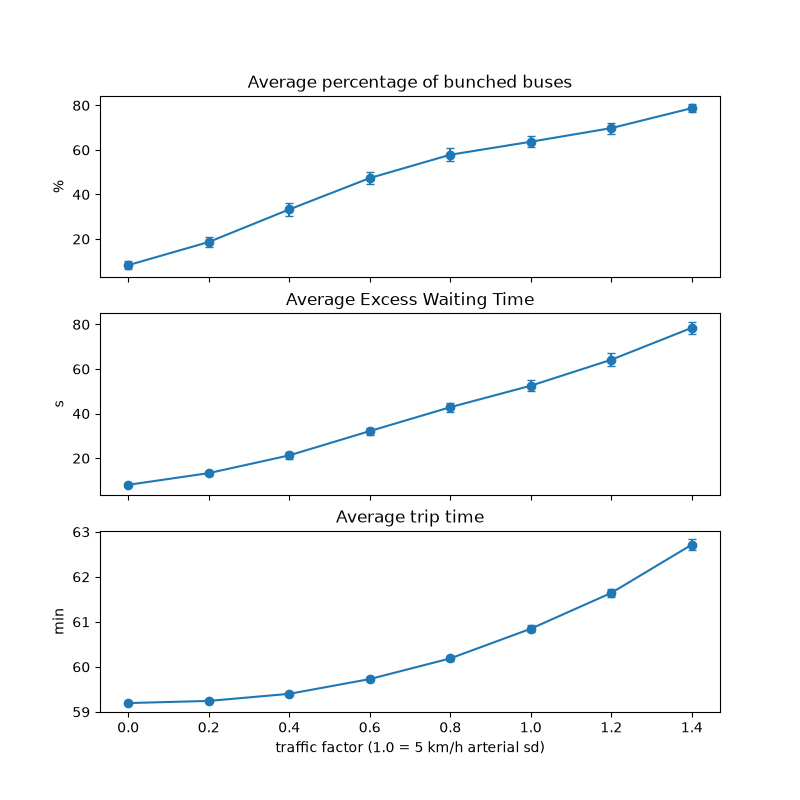
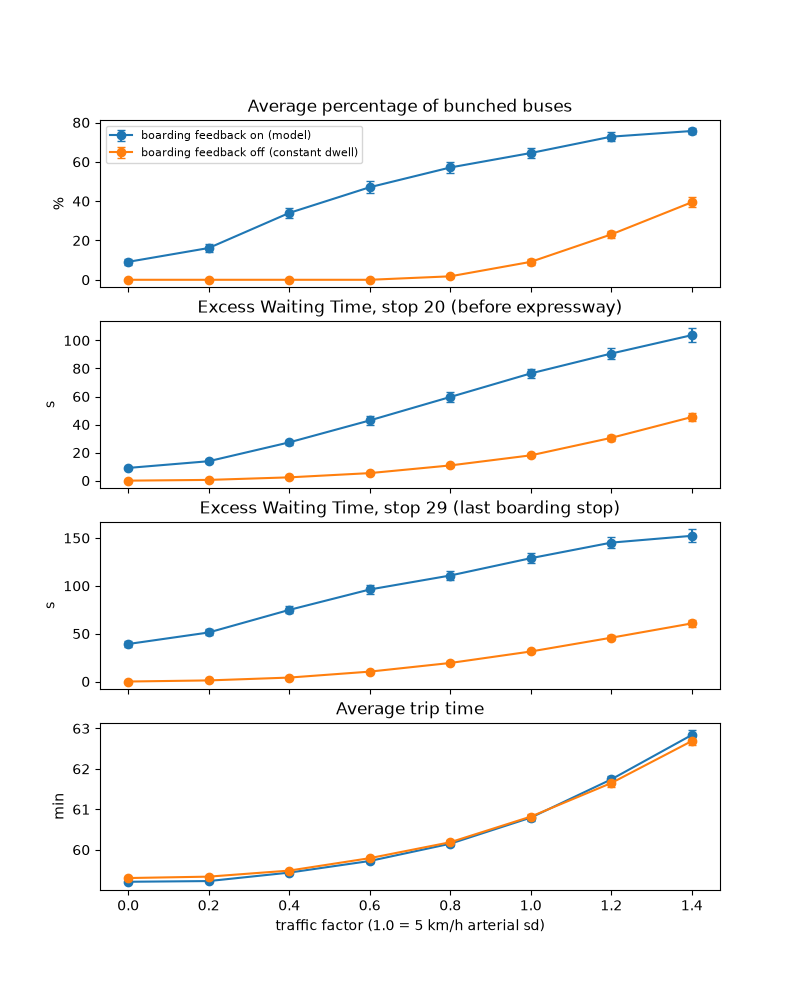
added comparison between no traffic, no passenger noise. and chose t_c = 10 min for control

diff --git a/busBunch.py b/busBunch.py
@@ -1,23 +1,51 @@
 import numpy as np
 import matplotlib.pyplot as plt
 from batch import run_batch
+from helpers import BEFORE_EXPRESSWAY_INDEX
 
 RUN_COUNT = 100
+PROFILE_RUNS = 200
+
+# boarding feedback: on = model (dwell grows with time since the last bus, Poisson boarding);
+# off = every bus dwells for the model's mean, so headway no longer affects dwell
+FEEDBACK = {"boarding feedback on (model)": True, "boarding feedback off (constant dwell)": False}
 
 if __name__ == "__main__":
-    # traffic-noise sweep, no control
+    # 1. traffic-noise sweep, no control, with and without boarding feedback
     traffic_factor = np.arange(0.0, 1.5, 0.2)
-    results = [run_batch(RUN_COUNT, traffic_factor=factor) for factor in traffic_factor]
+    results = {name: [run_batch(RUN_COUNT, traffic_factor=f, passenger_noise=fb) for f in traffic_factor]
+               for name, fb in FEEDBACK.items()}
 
-    fig, axs = plt.subplots(nrows=3, figsize=(8, 8), sharex=True)
-    axs[0].set_title('Average percentage of bunched buses')
-    axs[0].set(ylabel='%')
-    axs[1].set_title('Average Excess Waiting Time')
-    axs[1].set(ylabel='s')
-    axs[2].set_title('Average trip time')
-    axs[2].set(ylabel='min', xlabel = 'traffic factor (1.0 = 5 km/h arterial sd)')
-    for ax, key in zip(axs, ("prob", "ewt", "trip")):
-        ax.errorbar(traffic_factor, [r[key] for r in results], yerr=[r[key + "_ci"] for r in results],
-                    marker='o', capsize=3)
+    fig, axs = plt.subplots(nrows=4, figsize=(8, 10), sharex=True)
+    for ax, key, title, unit in zip(axs, ("prob", "ewt20", "ewt29", "trip"),
+                                    ("Average percentage of bunched buses", "Excess Waiting Time, stop 20 (before expressway)",
+                                     "Excess Waiting Time, stop 29 (last boarding stop)", "Average trip time"),
+                                    ("%", "s", "s", "min")):
+        for name, res in results.items():
+            ax.errorbar(traffic_factor, [r[key] for r in res], yerr=[r[key + "_ci"] for r in res],
+                        marker='o', capsize=3, label=name)
+        ax.set(title=title, ylabel=unit)
+    axs[0].legend(fontsize=8)
+    axs[3].set(xlabel='traffic factor (1.0 = 5 km/h arterial sd)')
     fig.savefig('traffic_noise_sweep.png')
+
+    # 2. EWT along the route: traffic noise (disturbance) x boarding feedback (unstable plant)
+    cases = {
+        "traffic + feedback (model)": dict(traffic_factor=1.0, passenger_noise=True),
+        "traffic only (feedback off)": dict(traffic_factor=1.0, passenger_noise=False),
+        "feedback only (no traffic noise)": dict(traffic_factor=0.0, passenger_noise=True),
+        "neither": dict(traffic_factor=0.0, passenger_noise=False),
+    }
+    stops = np.arange(1, 30)
+    fig2, ax2 = plt.subplots(figsize=(8, 5))
+    print(f"{'case':34s} {'% bunched':>10s} {'EWT20 (s)':>10s} {'EWT29 (s)':>10s} {'trip (min)':>11s}")
+    for name, kw in cases.items():
+        r = run_batch(PROFILE_RUNS, **kw)
+        ax2.plot(stops, r["ewt_stop"][1:30], marker='.', label=name)
+        print(f"{name:34s} {r['prob']:6.1f}±{r['prob_ci']:<3.1f} {r['ewt20']:6.1f}±{r['ewt20_ci']:<3.1f} "
+              f"{r['ewt29']:6.1f}±{r['ewt29_ci']:<3.1f} {r['trip']:7.2f}")
+    ax2.axvspan(BEFORE_EXPRESSWAY_INDEX, BEFORE_EXPRESSWAY_INDEX + 1, color='grey', alpha=0.2, label='expressway leg')
+    ax2.set(xlabel='stop', ylabel='EWT (s)', title='EWT along the route (no control, 200 runs each)')
+    ax2.legend(fontsize=8)
+    fig2.savefig('feedback_profile.png')
     plt.show()

diff --git a/delta_sweep.py b/delta_sweep.py
@@ -1,0 +1,51 @@
+import numpy as np
+import matplotlib.pyplot as plt
+from batch import run_batch
+from controlFunction import make_controller
+
+RUN_COUNT = 200
+
+# headroom delta as a fraction of cruise speed: buses normally run at r = 1 - delta,
+# leaving room to speed up to r = 1 (slow-only cap) when they fall behind
+DELTA = [0.0, 0.02, 0.04, 0.06, 0.08, 0.10]
+
+# slow-only controller at the gain chosen from the T_c sweep (T_c = 10 min: near-zero bunching
+# for about +2.5 min of trip time); add entries here to compare other gains
+GAINS = {"T_c = 10 min": 600}
+SLOW_ONLY = dict(r_max=1.0, r_min=0.5)
+
+if __name__ == "__main__":
+    baseline = run_batch(RUN_COUNT)
+    results = {name: [run_batch(RUN_COUNT, controller=make_controller(T_c=T_c, delta=d, **SLOW_ONLY))
+                      for d in DELTA]
+               for name, T_c in GAINS.items()}
+
+    # metrics against delta
+    fig, axs = plt.subplots(nrows=4, figsize=(8, 10), sharex=True)
+    for ax, key, title, unit in zip(axs, ("prob", "ewt20", "ewt29", "trip"),
+                                    ("Average percentage of bunched buses", "Excess Waiting Time, stop 20 (before expressway)",
+                                     "Excess Waiting Time, stop 29 (last boarding stop)", "Average trip time"),
+                                    ("%", "s", "s", "min")):
+        for name, res in results.items():
+            ax.errorbar(DELTA, [r[key] for r in res], yerr=[r[key + "_ci"] for r in res],
+                        marker='o', capsize=3, label=name)
+        ax.axhline(baseline[key], color='grey', linestyle='--', label='no control')
+        ax.set(title=title, ylabel=unit)
+    axs[0].legend(fontsize=8)
+    axs[3].set(xlabel='headroom delta (fraction of cruise speed); slow-only, r in [0.5, 1]')
+    fig.savefig('delta_sweep.png')
+
+    # trade-off: what each extra minute of trip time buys in EWT at the last boarding stop
+    fig2, ax2 = plt.subplots(figsize=(7, 5))
+    for name, res in results.items():
+        ax2.errorbar([r["trip"] for r in res], [r["ewt29"] for r in res],
+                     xerr=[r["trip_ci"] for r in res], yerr=[r["ewt29_ci"] for r in res],
+                     marker='o', capsize=3, label=name)
+        for d, r in zip(DELTA, res):
+            ax2.annotate(f"{d:.2f}", (r["trip"], r["ewt29"]), textcoords="offset points", xytext=(5, 5), fontsize=7)
+    ax2.plot(baseline["trip"], baseline["ewt29"], 'ks', label='no control')
+    ax2.set(xlabel='average trip time (min)', ylabel='EWT at stop 29 (s)',
+            title='Cost of control: trip time against EWT (labels: delta)')
+    ax2.legend(fontsize=8)
+    fig2.savefig('delta_tradeoff.png')
+    plt.show()

diff --git a/tc_sweep.py b/tc_sweep.py
@@ -7,11 +7,11 @@ RUN_COUNT = 100
 
 # T_c (s): gain alpha = 1/T_c. Predicted stable window at a 10 s control period:
 # about 25 s (delay limit) to about 74 min (boarding-instability limit); see CLAUDE.md.
-T_C = [30, 120, 600, 1800, 3600, 4500, 5400]
+T_C = [15, 20, 30, 120, 600, 1800, 3600, 5400]
 
 STAGES = {
     "stage 1: no limits": dict(),
-    "stage 2: slow-only, delta 0.05": dict(delta=0.05, r_max=1.0, r_min=0.5),
+    "stage 2: slow-only, delta 0": dict(delta=0, r_max=1.0, r_min=0.5),
 }
 
 if __name__ == "__main__":
@@ -20,10 +20,11 @@ if __name__ == "__main__":
                       for T_c in T_C]
                for name, params in STAGES.items()}
 
-    fig, axs = plt.subplots(nrows=3, figsize=(8, 8), sharex=True)
-    for ax, key, title, unit in zip(axs, ("prob", "ewt", "trip"),
-                                    ("Average percentage of bunched buses", "Average Excess Waiting Time", "Average trip time"),
-                                    ("%", "s", "min")):
+    fig, axs = plt.subplots(nrows=4, figsize=(8, 10), sharex=True)
+    for ax, key, title, unit in zip(axs, ("prob", "ewt20", "ewt29", "trip"),
+                                    ("Average percentage of bunched buses", "Excess Waiting Time, stop 20 (before expressway)",
+                                     "Excess Waiting Time, stop 29 (last boarding stop)", "Average trip time"),
+                                    ("%", "s", "s", "min")):
         for name, res in results.items():
             ax.errorbar(np.array(T_C) / 60, [r[key] for r in res], yerr=[r[key + "_ci"] for r in res],
                         marker='o', capsize=3, label=name)
@@ -31,6 +32,6 @@ if __name__ == "__main__":
         ax.axvline(74, color='red', linestyle=':', label='predicted instability (about 74 min)')
         ax.set(title=title, ylabel=unit)
     axs[0].legend(fontsize=8)
-    axs[2].set(xscale='log', xlabel='T_c (min), gain = 1/T_c')
+    axs[3].set(xscale='log', xlabel='T_c (min), gain = 1/T_c')
     fig.savefig('tc_sweep.png')
     plt.show()

diff --git a/batch.py b/batch.py
@@ -2,6 +2,8 @@ import numpy as np
 from sim import simulate_run
 from helpers import headway_stats
 
+EWT_STOPS = (20, 29)   # stop before the expressway; last boarding stop (30, the terminal, is alight-only)
+
 
 def ci95(x):
     # 95% CI half-width; one value per run, so runs are the independent samples
@@ -15,7 +17,8 @@ def run_batch(n_runs=100, **sim_kwargs):
     Each metric is computed per run first, so runs are the independent samples for the CIs.
     Returns a dict of means and 95% CI half-widths:
         prob, prob_ci:       % of buses bunched
-        ewt, ewt_ci:         route-average EWT (s), stops 1-29 (per-passenger average under uniform demand)
+        ewt20, ewt20_ci:     EWT (s) at stop 20 (one key pair per stop in EWT_STOPS)
+        ewt29, ewt29_ci:     EWT (s) at stop 29
         ewt_stop:            mean EWT at every stop (array of 31)
         trip, trip_ci:       mean trip time (min), averaged within each run first
     """
@@ -28,10 +31,11 @@ def run_batch(n_runs=100, **sim_kwargs):
         trip.append(np.mean(list(result["trip_times"].values())) / 60)  # buses in a run are not independent
 
     ewt_all = np.array(ewt_all)                     # (runs, 31)
-    ewt_route = ewt_all[:, 1:30].mean(axis=1)       # per-run route average, stops 1-29
-    return {
+    out = {
         "prob": np.mean(prob), "prob_ci": ci95(prob),
-        "ewt": ewt_route.mean(), "ewt_ci": ci95(ewt_route),
         "ewt_stop": ewt_all.mean(axis=0),
         "trip": np.mean(trip), "trip_ci": ci95(trip),
     }
+    for k in EWT_STOPS:
+        out[f"ewt{k}"], out[f"ewt{k}_ci"] = ewt_all[:, k].mean(), ci95(ewt_all[:, k])
+    return out

diff --git a/sim.py b/sim.py
@@ -1,11 +1,11 @@
-from helpers import Bus, BusStop, distance, H
+from helpers import Bus, BusStop, distance, H, AVERAGE_PASSENGER_RATE
 import math
 
 DISPATCH_END = 7200  # last dispatch at t <= 2 h (17:00-19:00 peak)
 TIMEOUT = 12600  # safety cap only; runs normally end when every bus is terminal
 
 
-def simulate_run(record=False, controller = None, traffic_factor = 1.0, control_period = 10):
+def simulate_run(record=False, controller = None, traffic_factor = 1.0, control_period = 10, passenger_noise = True):
     """One peak-window run.
 
     Returns a dict with
@@ -50,7 +50,7 @@ def simulate_run(record=False, controller = None, traffic_factor = 1.0, control_
                     bus.terminal = True
                 else:
                     bus.last_stop += 1
-                    bus.dwell_end = time + busStops[bus.last_stop].dwell_time(time)
+                    bus.dwell_end = time + busStops[bus.last_stop].dwell_time(time, passenger_noise)
                     bus.base_speed = busStops[bus.last_stop].driving_speed()
                     bus.speed = bus.base_speed
 

diff --git a/helpers.py b/helpers.py
@@ -19,6 +19,8 @@ ARTERIAL_SPEED = 24.5
 
 # CRUISE_SPEED = (distance[-1])/(ROUTE_DURATION * 60)
 H = 5.0 * 60 # 5 min headway, based on 190 bus service weekday 5-7pm headway
+# model mean dwell: a bus waits about H - d since the previous departure, so d = 15.6 + 1.52 (H - d)/30 gives 29.3 s
+MEAN_DWELL = (FIXED_BUS_STOP_DELAY + AVERAGE_BOARD_TIME * AVERAGE_PASSENGER_RATE * H) / (1 + AVERAGE_BOARD_TIME * AVERAGE_PASSENGER_RATE)
 
 def get_speed(expressway = False, traffic_factor = 0):
     if traffic_factor == 0:
@@ -59,7 +61,11 @@ class BusStop:
         self.index = index
         self.traffic_factor = traffic_factor
 
-    def dwell_time(self, current_time):
+    def dwell_time(self, current_time, passenger_noise):
+
+        if not passenger_noise:
+            # boarding feedback off: every bus dwells for the model's mean, whatever its headway
+            return MEAN_DWELL
 
         if self.last_bus_time == None:
             wait_time = H

diff --git a/controlFunction.py b/controlFunction.py
@@ -1,11 +1,10 @@
 import numpy as np
-from helpers import distance, H, ARTERIAL_SPEED, EXPRESSWAY_SPEED, BEFORE_EXPRESSWAY_INDEX
+from helpers import distance, H, ARTERIAL_SPEED, EXPRESSWAY_SPEED, BEFORE_EXPRESSWAY_INDEX, MEAN_DWELL
 
 # Equivalent-arterial coordinate: the route stretched so it runs at ARTERIAL_SPEED throughout.
 # The expressway leg is shrunk by ARTERIAL/EXPRESSWAY, and each intermediate stop adds the
 # distance an arterial bus would cover during an average dwell. A spacing in this coordinate
 # divided by ARTERIAL_SPEED is a nominal time headway.
-MEAN_DWELL = 29.3                                   # s, model mean dwell (see CLAUDE.md)
 V_ART = ARTERIAL_SPEED / 3600                       # km/s
 DWELL_EQ = MEAN_DWELL * V_ART                       # km of arterial road per average dwell
 

diff --git a/README.md b/README.md
@@ -2,13 +2,15 @@
 
 A simulation of bus bunching on SMRT service 190 (Kampong Bahru Terminal to Choa Chu Kang Interchange), built from real LTA stop-distance data and calibrated to the published timetable. The goal is to test a cooperative speed-control law (Daganzo and Pilachowski, 2011) under the constraints a Singapore operator actually faces. The main constraint is that buses can be slowed but not sped up.
 
-**Status:** the uncontrolled baseline is complete. The controller is in progress.
+**Status:** the uncontrolled baseline and a first controller are complete. The headroom trade-off, a discrete driver display and driver lag are in progress.
 
 <img width="2400" height="800" alt="Animation of 190 buses along the route, with bunched buses in red" src="https://github.com/user-attachments/assets/81368f2a-8a7e-4990-985b-4adb60d7a8e3" />
 
 ## Headline so far
 
-Without control, bunching appears even with no traffic noise at all. Uneven passenger boarding alone bunches about 11% of buses over a two-hour evening peak. At the baseline traffic noise this rises to 65%. Excess wait time grows steadily along the route, reaching about 2 minutes by the last boarding stop.
+Without control, bunching appears even with no traffic noise at all. Uneven passenger boarding alone bunches about 11% of buses over a two-hour evening peak. At the baseline traffic noise this rises to 65%, and excess wait time (EWT) reaches about 2 minutes by the last boarding stop.
+
+A slow-only version of Daganzo and Pilachowski's cooperative speed control, which never asks a bus to go faster than traffic allows, cuts bunching from 65% to under 1% and EWT at the last boarding stop from 131 s to 11 s. It costs about 2.5 minutes of trip time.
 
 ## Model
 
@@ -48,7 +50,9 @@ The last 0.8 km to the interchange takes 5–7 min in the timetable, against abo
 
   AWT = Σh² / (2Σh),  SWT = H/2,  EWT = AWT − SWT.
 
-  EWT is the extra time an average passenger, arriving at random, waits because buses are uneven. It is quadratic in headway, because long gaps both catch more passengers and make each of them wait longer. The **route average** over stops 1–29 equals the per-passenger average, because demand is uniform across stops. The first and last bus are left out.
+  EWT is the extra time an average passenger, arriving at random, waits because buses are uneven. It is quadratic in headway, because long gaps both catch more passengers and make each of them wait longer. The first and last bus are left out.
+
+  EWT grows along the route, so an average over all stops would hide where the problem is. It is reported at two stops: **stop 20**, the last stop before the expressway, and **stop 29**, the last boarding stop. The terminal is not used: it is alight-only, so its headways match no passenger's wait.
 - **Trip time:** dispatch to terminal, averaged within each run. When control is added, this becomes the cost of control.
 
 All results are means over independent runs with 95% confidence intervals (1.96 × sd / √runs). Each run counts as one sample, since buses within a run are not independent.
@@ -57,29 +61,80 @@ All results are means over independent runs with 95% confidence intervals (1.96 
 
 ![Noise sweep](traffic_noise_sweep.png)
 
-The figure uses 100 runs per level. The table below uses 200 runs per level:
+The figure uses 100 runs per level and shows the model (blue) alongside a version with the boarding feedback switched off (orange; explained below). The table below uses 200 runs per level, for the model:
 
-| Traffic factor (arterial sd) | % bunched | EWT, route average | EWT stop 10 | EWT stop 20 | EWT stop 29 | Trip time |
-|---|---|---|---|---|---|---|
-| 0 (boarding noise only) | 10.8 ± 1.3 | 9 ± 1 s | 1 s | 9 s | 40 s | 59.2 min |
-| 0.6 (3 km/h) | 48.6 ± 2.1 | 32 ± 1 s | 8 s | 42 s | 97 s | 59.7 min |
-| 1.0 (5 km/h, baseline) | 65.2 ± 1.7 | 53 ± 2 s | 23 s | 77 s | 128 s | 60.8 min |
-| 1.4 (7 km/h) | 76.6 ± 1.3 | 75 ± 2 s | 49 s | 107 s | 152 s | 62.7 min |
+| Traffic factor (arterial sd) | % bunched | EWT stop 20 | EWT stop 29 | Trip time |
+|---|---|---|---|---|
+| 0 (boarding noise only) | 10.8 ± 1.3 | 9 ± 1 s | 40 ± 2 s | 59.2 min |
+| 0.6 (3 km/h) | 48.6 ± 2.1 | 42 ± 2 s | 97 ± 3 s | 59.7 min |
+| 1.0 (5 km/h, baseline) | 65.2 ± 1.7 | 77 ± 3 s | 128 ± 3 s | 60.8 min |
+| 1.4 (7 km/h) | 76.6 ± 1.3 | 107 ± 3 s | 152 ± 5 s | 62.7 min |
 
 - **Bunching is not only a traffic problem.** With traffic noise switched off, the boarding feedback alone still bunches about 11% of buses. This is the instability that the first term of Daganzo and Pilachowski's control law is designed to cancel.
-- **Headway errors amplify along the route.** At baseline, EWT grows from about 23 s at stop 10 to about 2 min at stop 29. The route average (53 s) hides this: passengers late on the route bear most of the cost.
+- **Headway errors amplify along the route.** At baseline, EWT grows from about 23 s at stop 10 to 77 s at stop 20 and about 2 min at stop 29. Passengers late on the route bear most of the cost.
 - **The baseline sits on the steep part of the curve,** so the controller will be tested at several noise levels rather than at the baseline alone.
 
-## Control (in progress)
+### Why buses bunch: a disturbance and an amplifier
 
-The planned controller is based on Daganzo and Pilachowski (2011). Each bus adjusts its speed using the gaps to the bus in front and the bus behind, as if neighbouring buses were joined by springs. This project's version adds the realities of operating it:
+Two mechanisms drive bunching here. Each can be switched off separately:
 
-- slow-only control, capped at the cruise speed, because operators slow buses rather than speed them up;
-- headroom δ below the cruise speed;
-- driver response lag and an acceleration limit;
-- free boundaries at the first and last bus.
+- **Traffic noise:** random leg speeds.
+- **Boarding feedback:** a late bus finds more passengers waiting, dwells longer and falls further behind. Switching it off gives every bus the model's average dwell (29.3 s), whatever its headway.
 
-The paper's linear analysis only holds while the speed command stays within its limits. The open question this project addresses is how much is lost once the command is clipped.
+![EWT along the route](feedback_profile.png)
+
+200 runs each, baseline traffic noise where on:
+
+| Case | % bunched | EWT stop 20 | EWT stop 29 |
+|---|---|---|---|
+| Traffic noise + boarding feedback (model) | 66.2 ± 1.7 | 78.5 s | 130.8 s |
+| Traffic noise only | 9.4 ± 1.1 | 18.9 s | 32.4 s |
+| Boarding feedback only | 11.3 ± 1.5 | 9.5 s | 40.3 s |
+| Neither | 0.0 | 0 s | 0 s |
+
+- **Traffic noise alone makes headway errors accumulate like a random walk.** EWT rises roughly linearly along the route, with a jump across the long expressway leg, but nothing amplifies the errors.
+- **Boarding feedback alone amplifies even the small randomness in boarding numbers.** EWT starts near zero and accelerates along the route.
+- **Together they are far worse than the sum:** 131 s at the last boarding stop, against 32 + 40 s. In control terms, the boarding feedback is an unstable plant and traffic noise is the disturbance it amplifies. This is why the controller needs a real restoring force, not just smoothing.
+- With feedback on, EWT dips slightly across the expressway, where there is no boarding and nearby buses draw independent speeds. This has not been investigated further.
+
+## Control
+
+The controller is based on Daganzo and Pilachowski (2011). Each bus adjusts its speed using the gaps to the bus in front and the bus behind, as if neighbouring buses were joined by springs.
+
+**Measuring the gaps.** The route has two speeds, 24.5 km/h arterial and 43 km/h on the expressway, so a distance gap does not translate directly into a time gap. The route is therefore mapped onto an *equivalent arterial* coordinate: the expressway leg is shrunk by 24.5/43, and each stop adds the distance an arterial bus covers during an average 29.3 s dwell. A gap in this coordinate divided by 24.5 km/h is a nominal time headway. This is a model-based estimate: it assumes nominal speeds and average dwells, not each bus's actual ones.
+
+**The law.** Each bus gets a speed fraction r, which multiplies its drawn leg speed:
+
+  r = 1 − δ + (e_front − e_rear) / T_c
+
+Here e_front and e_rear are the front and rear headway errors (nominal headway − H), T_c sets the gain (α = 1/T_c), and δ is optional headroom. A bus with no neighbour, the first or the newest, treats the missing one as sitting at exactly the ideal headway. The target is refreshed every 10 s, as an in-cab display would be. Two configurations:
+
+- **No limits:** any r. This checks the theory, not a realistic design.
+- **Slow-only:** r is capped at 1, so a bus is never asked to go faster than traffic allows, with a floor of 0.5.
+
+**Stability.** Two limits bound the gain. The 10 s refresh delays the feedback, which would cause oscillation for T_c below about 25 s. More interesting is a lower limit on the gain. This version leaves out the paper's term that cancels the boarding feedback, so the spring has to beat that instability on its own. Diagonalising the linearised chain gives every mode a growth rate proportional to (q·b·v̄ − 2α), where q is the passenger arrival rate per km, b the boarding time and v̄ the cruise speed. The spring therefore wins only if α > q·b·v̄ / 2, which here means T_c below about 74 min. Over a single trip of about an hour the transition is gradual: just past the limit, errors grow far more slowly than without control. In the sweep below, performance worsens smoothly as T_c approaches it.
+
+![Gain sweep](tc_sweep.png)
+
+200 runs each, baseline traffic noise:
+
+| Configuration | % bunched | EWT stop 20 | EWT stop 29 | Trip time |
+|---|---|---|---|---|
+| No control | 65.4 ± 1.7 | 77 ± 3 s | 131 ± 4 s | 60.8 min |
+| No limits, T_c = 10 min | 0.0 | 3 s | 3 s | 60.8 min |
+| Slow-only, T_c = 10 min | 0.9 ± 0.4 | 11 ± 1 s | 11 ± 1 s | 63.3 min |
+| Slow-only, T_c = 60 min | 36.5 ± 1.7 | 50 ± 2 s | 64 ± 2 s | 61.9 min |
+| Slow-only, T_c = 30 s | 0.0 | 8 s | 10 s | 69.5 min |
+
+- **Slow-only control works with a strong enough gain.** At T_c = 10 min it removes nearly all bunching. It costs about 2.5 min of trip time, because buses can only ever be slowed.
+- **A weak gain is not enough when buses can only slow down.** At T_c = 60 min, slow-only control only halves bunching. A bus that falls behind cannot catch up, so half the spring is missing.
+- **Too strong a gain is expensive.** At T_c = 30 s, buses spend much of their time at the speed floor, and trips take nearly 9 minutes longer.
+
+**In progress:**
+
+- the headroom trade-off: trip time against EWT as δ varies;
+- a discrete driver display: the target shown as a few speed levels, refreshed every few seconds;
+- driver response lag.
 
 ## Assumptions and limitations
 
@@ -89,13 +144,17 @@ The paper's linear analysis only holds while the speed command stays within its 
 - Buses can overtake freely.
 - Speeds are lumped effective values, calibrated to off-peak (after 23:30) scheduled times. Peak trips are probably slower.
 - H = 5 min is the midpoint of a published 3–7 min range. The real headway varies through the evening.
+- The controller estimates headways from nominal speeds and average dwells, not from each bus's actual history.
+- No acceleration limit is applied. The modelled speeds are effective averages, and the controller changes them by a fraction of a percent per update, far below what a bus can manage.
 
 ## How to run
 
 ```bash
 python -m venv venv && source venv/bin/activate
 pip install -r requirements.txt
-python busBunch.py                 # noise sweep (about 1 min): saves and shows traffic_noise_sweep.png
+python busBunch.py                 # no control (about 3 min): traffic_noise_sweep.png, feedback_profile.png
+python tc_sweep.py                 # controller gain sweep (about 4 min): tc_sweep.png
+python delta_sweep.py              # headroom sweep (about 6 min): delta_sweep.png, delta_tradeoff.png
 python busBunchVisualisation.py    # one run, animated
 ```
 
